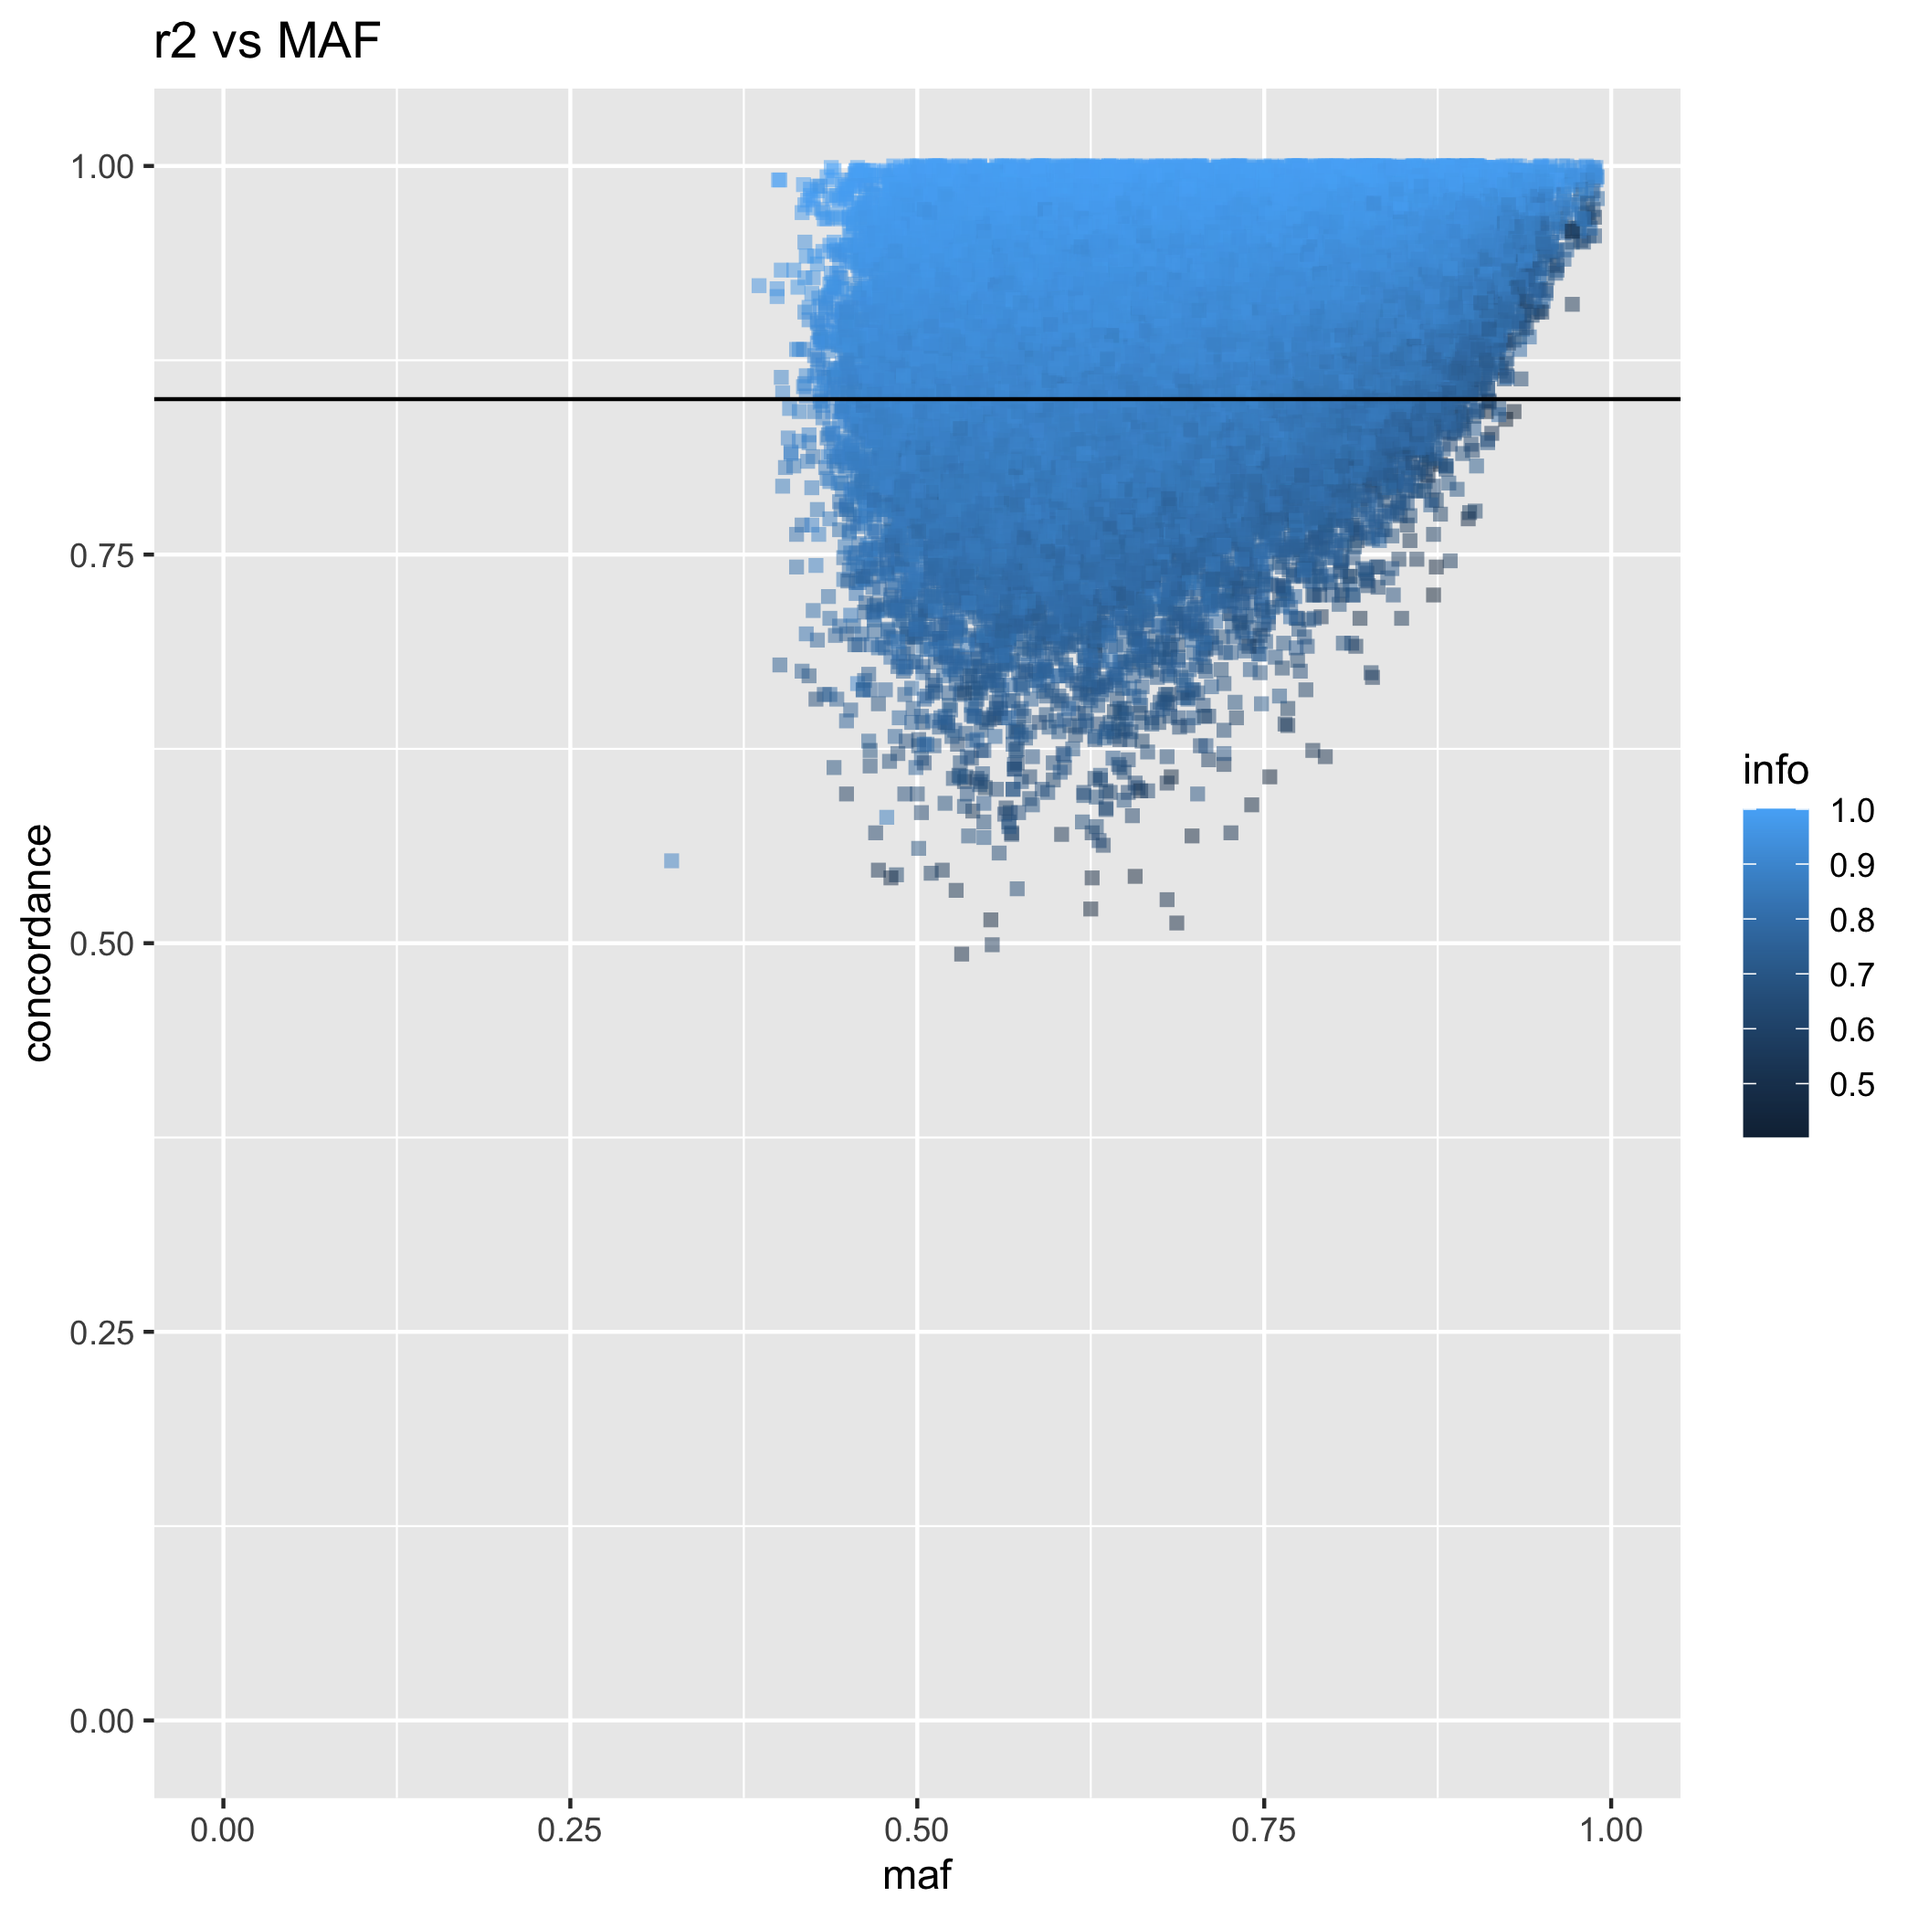
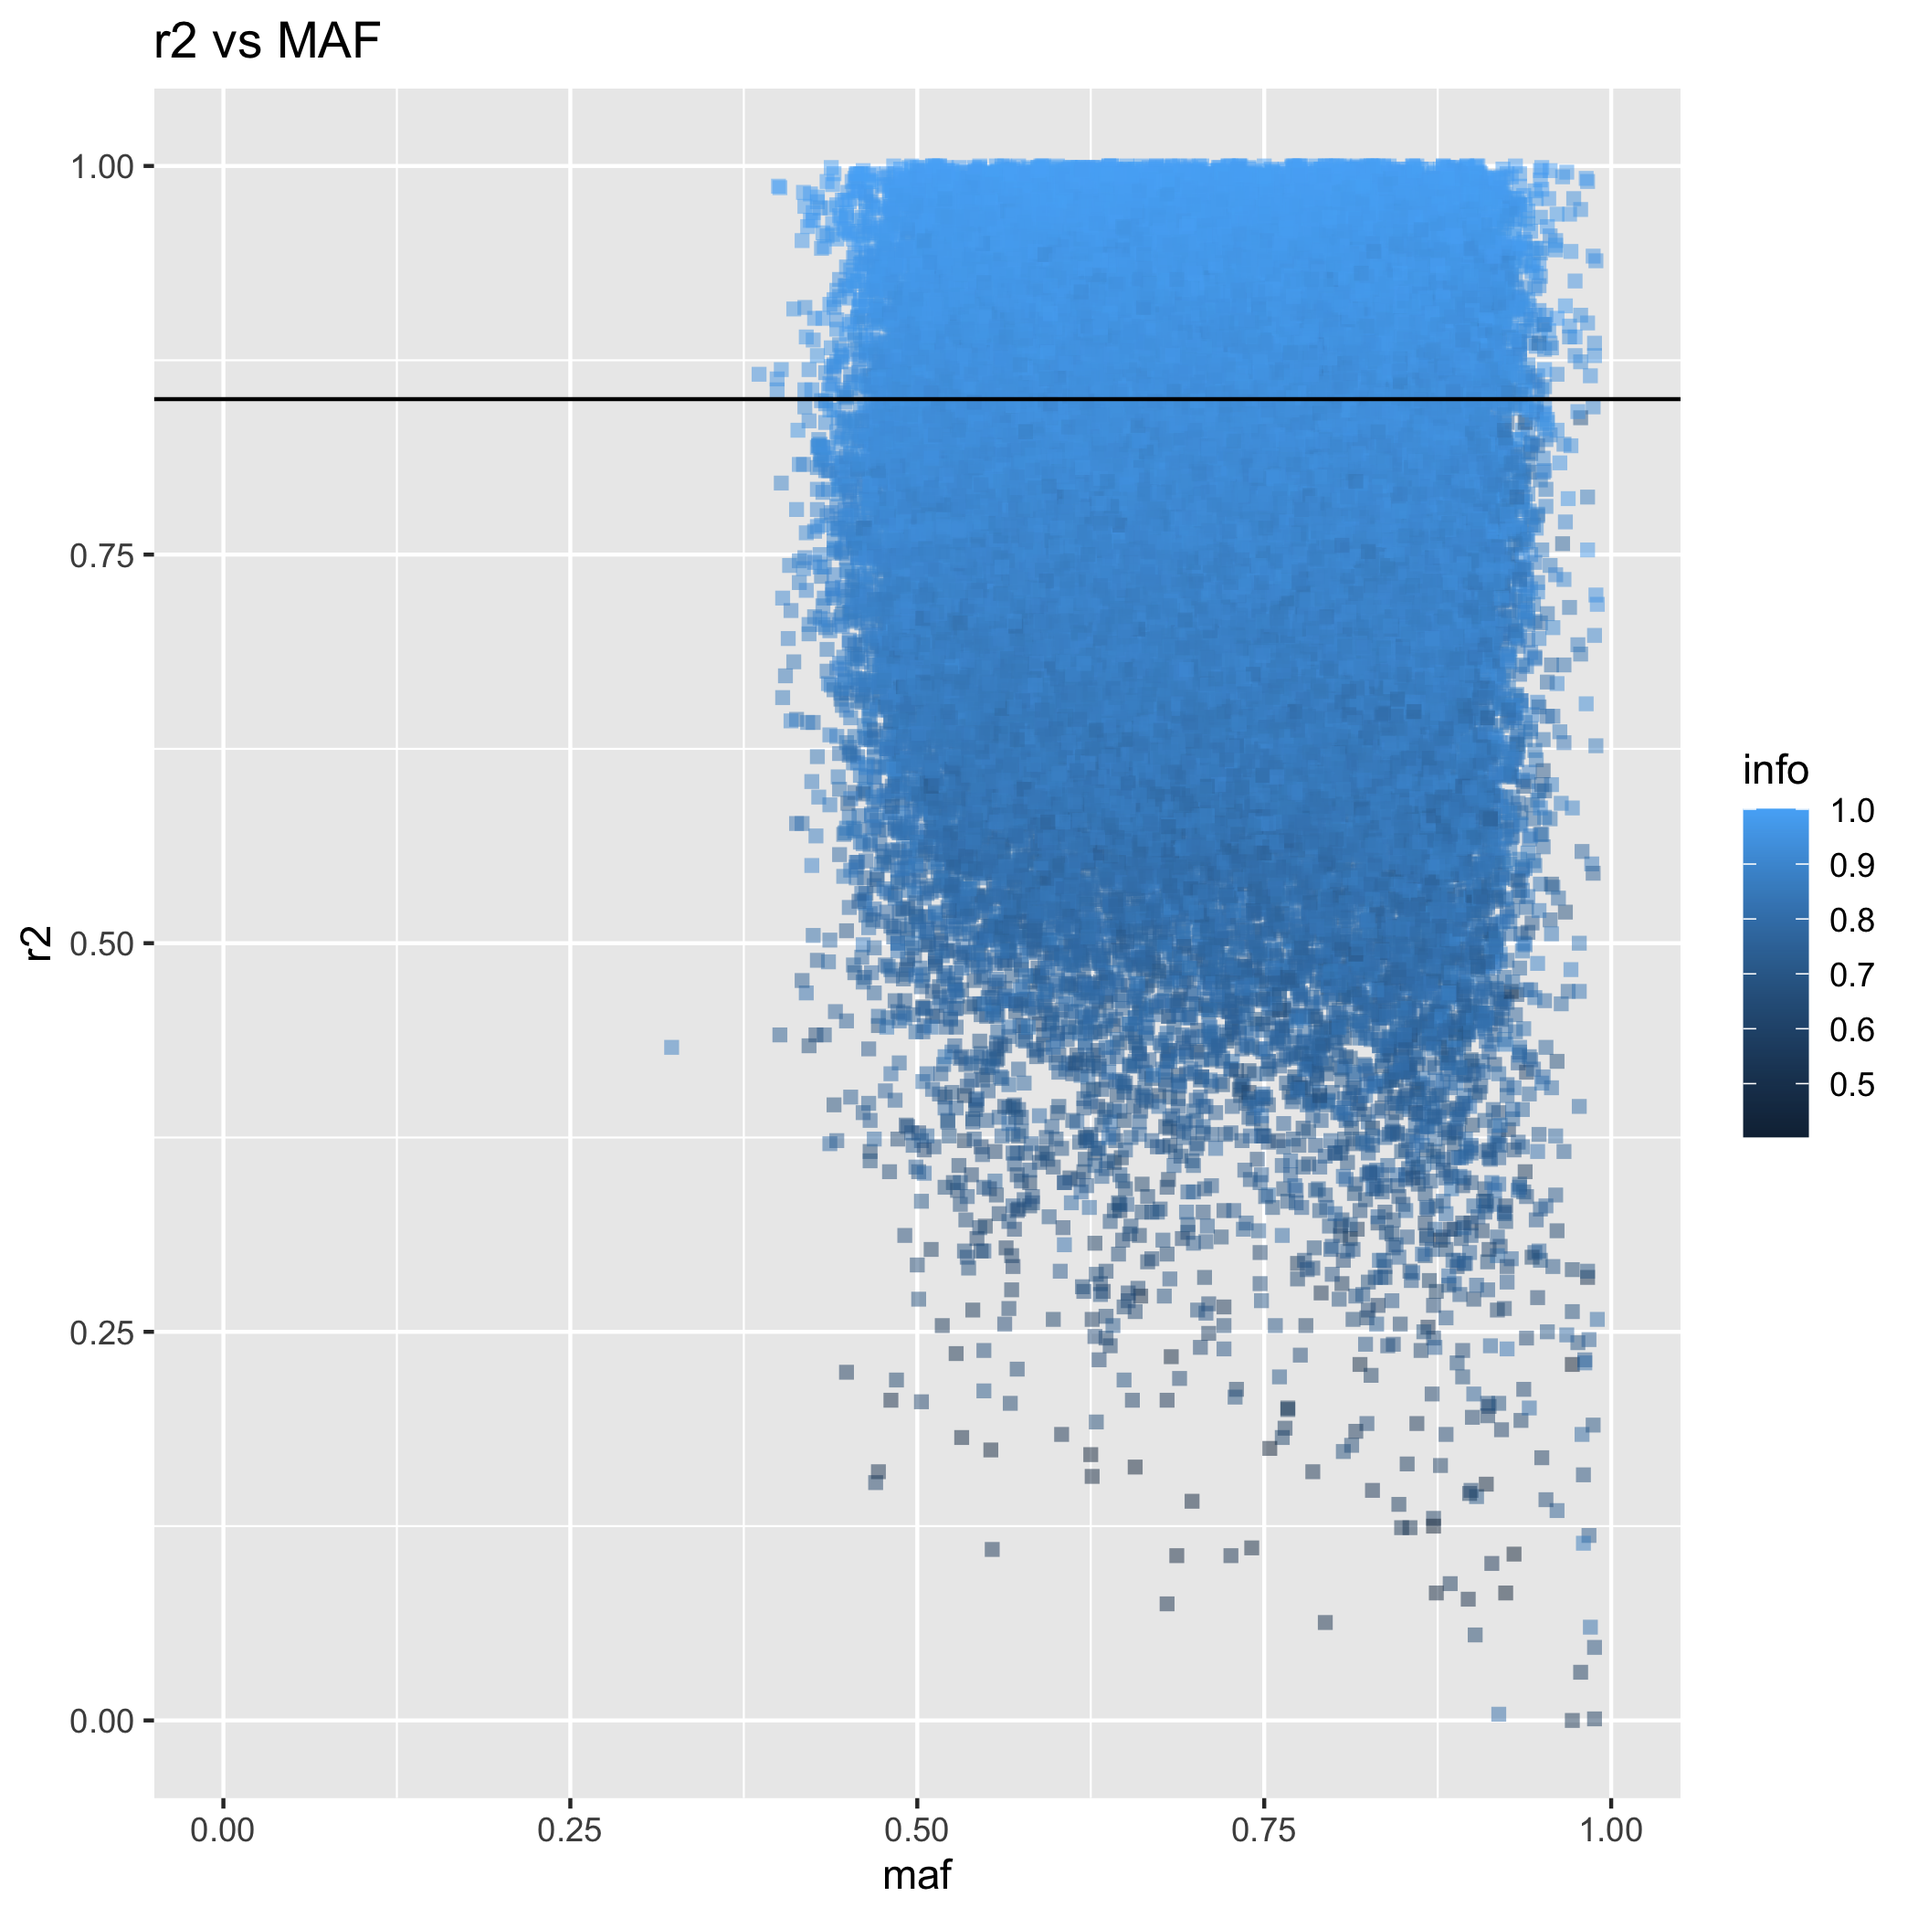
fixed minor bug

diff --git a/New_Analysis/analysis/Imputation_Analysis.md b/New_Analysis/analysis/Imputation_Analysis.md
@@ -160,7 +160,7 @@ ggplot(data,aes(x=maf,y=concordance,color=info)) + geom_point(alpha = .5, shape 
 ![](Imputation_Analysis_files/figure-gfm/unnamed-chunk-6-1.png)<!-- -->
 
 ``` r
-ggplot(data,aes(x=maf,y=concordance,color=info)) + geom_point(alpha = .5, shape = 15) + geom_hline(yintercept = 0.85) + coord_cartesian(ylim = c(0, 1.0),xlim = c(0, 1.0)) + ggtitle("r2 vs MAF")
+ggplot(data,aes(x=maf,y=r2,color=info)) + geom_point(alpha = .5, shape = 15) + geom_hline(yintercept = 0.85) + coord_cartesian(ylim = c(0, 1.0),xlim = c(0, 1.0)) + ggtitle("r2 vs MAF")
 ```
 
 ![](Imputation_Analysis_files/figure-gfm/unnamed-chunk-7-1.png)<!-- -->
